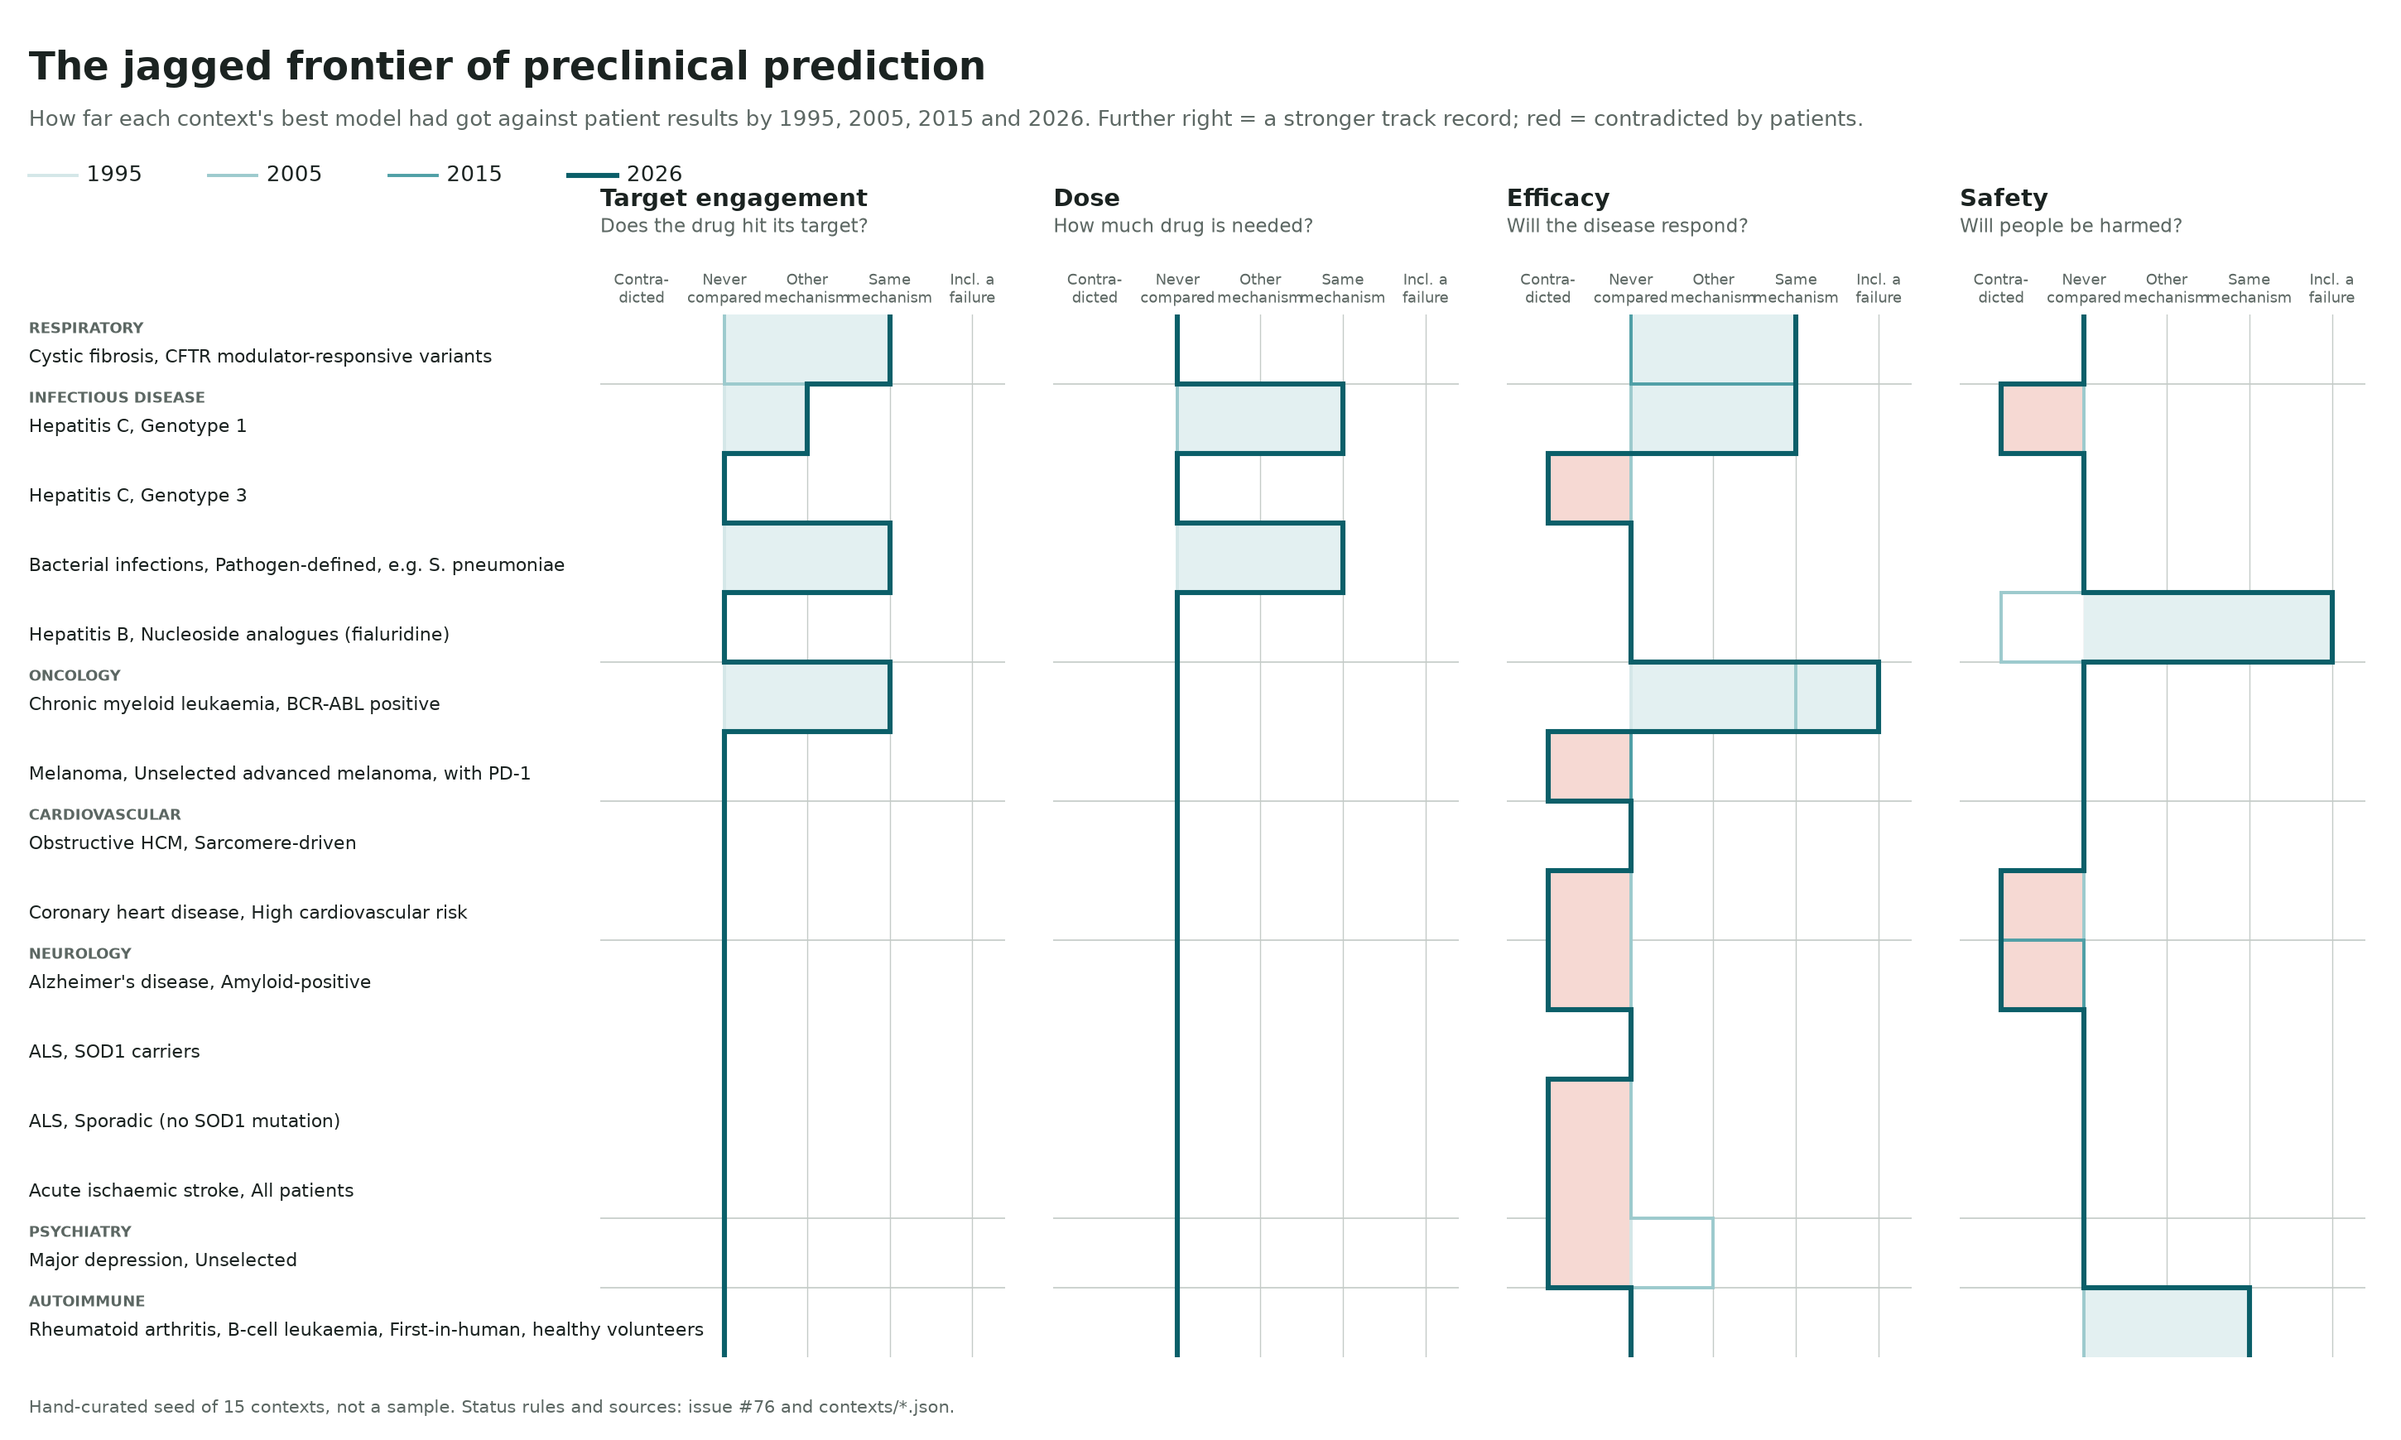
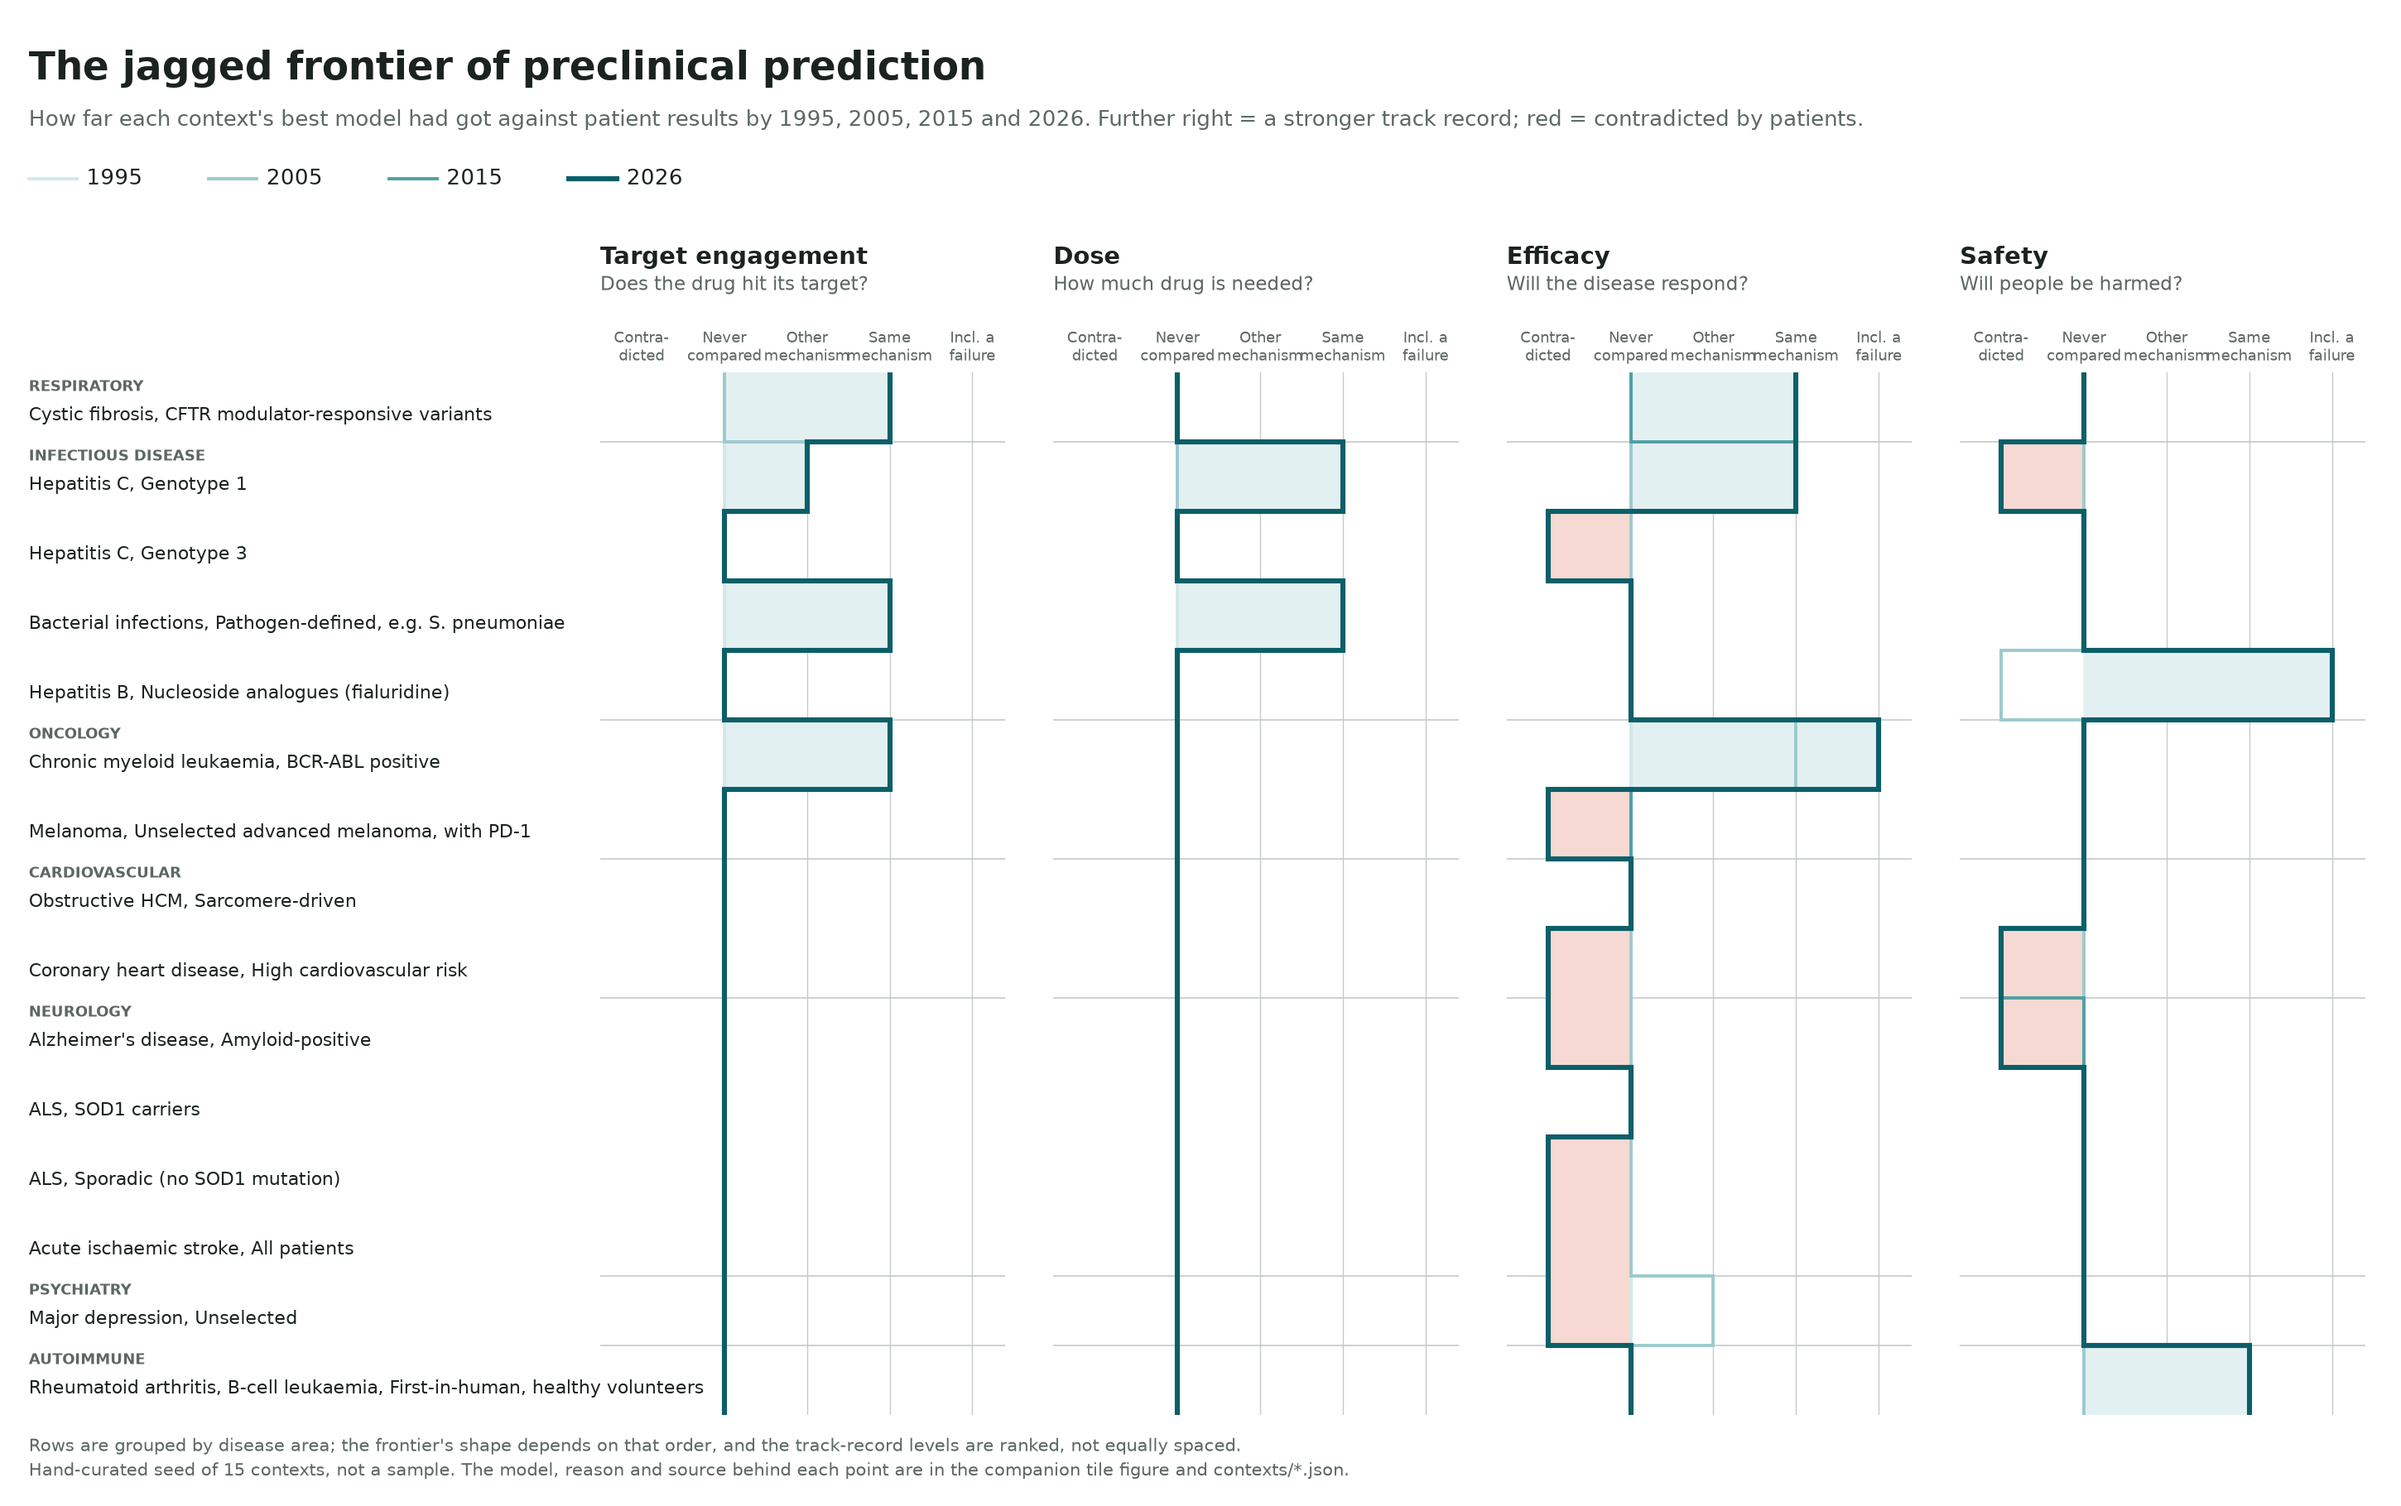
Frontier figure: clear the legend, note that row order shapes the frontier

diff --git a/analyses/model-system-atlas/figure_frontier.py b/analyses/model-system-atlas/figure_frontier.py
@@ -35,7 +35,7 @@ def main():
             areas.append((r["area"], len(layout)))
         layout.append(r)
     n = len(layout)
-    row_h, head_h, foot_h = 0.42, 1.9, 0.5
+    row_h, head_h, foot_h = 0.42, 2.25, 0.55
     fig_h = head_h + row_h * n + foot_h
     fig = plt.figure(figsize=(14.5, fig_h), dpi=200)
     fy = lambda inches: 1 - inches / fig_h
@@ -47,8 +47,8 @@ def main():
     fig.text(0.012, fy(0.66), "How far each context's best model had got against patient results by 1995, 2005, 2015 and 2026. "
              "Further right = a stronger track record; red = contradicted by patients.", fontsize=9.5, color=MUTED, va="top")
     for k, (yr, c) in enumerate(YEARS):
-        fig.add_artist(plt.Line2D([0.012 + k * 0.075, 0.032 + k * 0.075], [fy(1.06), fy(1.06)], color=c, lw=2.2 if yr == 2026 else 1.4))
-        fig.text(0.036 + k * 0.075, fy(1.06), str(yr), fontsize=9.5, color=INK, va="center")
+        fig.add_artist(plt.Line2D([0.012 + k * 0.075, 0.032 + k * 0.075], [fy(1.08), fy(1.08)], color=c, lw=2.2 if yr == 2026 else 1.4))
+        fig.text(0.036 + k * 0.075, fy(1.08), str(yr), fontsize=9.5, color=INK, va="center")
 
     for j, (key, title) in enumerate(DECISIONS):
         ax = fig.add_axes([label_w + j * (col_w + gap), bottom, col_w, height])
@@ -84,8 +84,10 @@ def main():
     for i, r in enumerate(layout):
         lab.text(0.05, i + 0.12, f"{r['disease']}, {r['population']}", fontsize=7.8, color=INK, va="center")
 
-    fig.text(0.012, fy(fig_h - 0.14), "Hand-curated seed of 15 contexts, not a sample. Status rules and sources: issue #76 and contexts/*.json.",
-             fontsize=7.6, color=MUTED, va="bottom")
+    fig.text(0.012, fy(fig_h - 0.14),
+             "Rows are grouped by disease area; the frontier's shape depends on that order, and the track-record levels are ranked, not equally spaced.\n"
+             "Hand-curated seed of 15 contexts, not a sample. The model, reason and source behind each point are in the companion tile figure and contexts/*.json.",
+             fontsize=7.6, color=MUTED, va="bottom", linespacing=1.4)
     out = os.path.join(HERE, "frontier.png")
     fig.savefig(out, facecolor="white")
     print(out)
